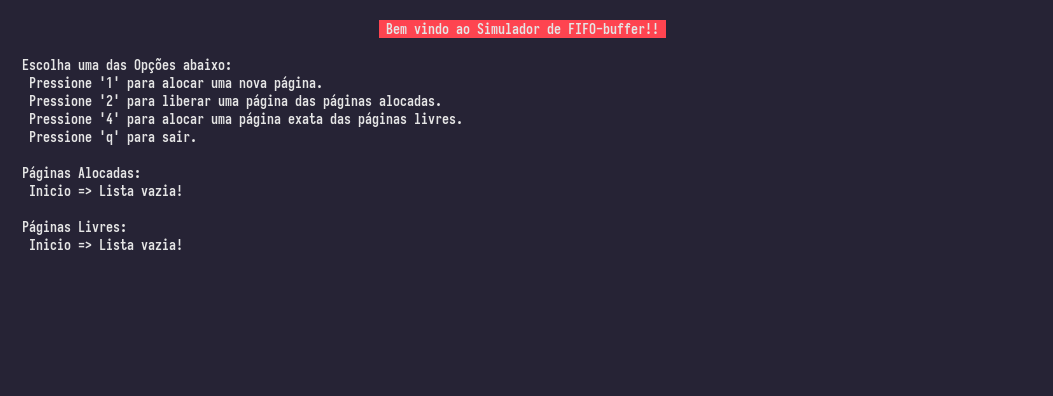
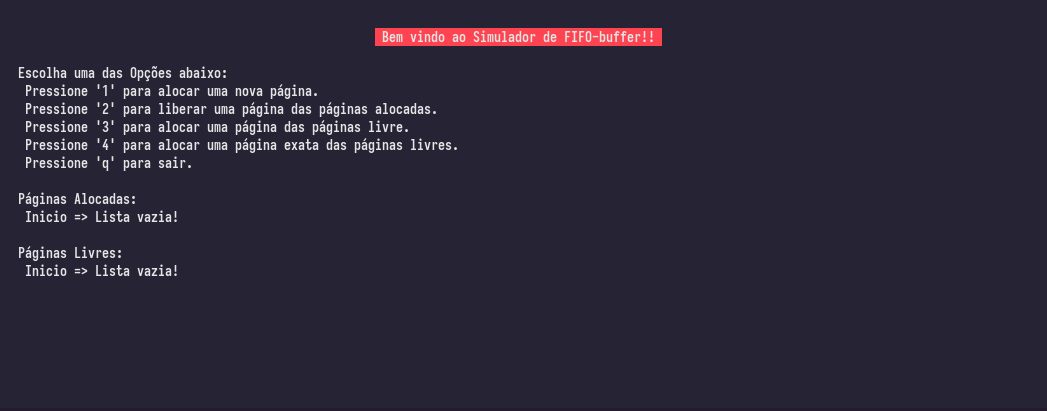
corrigindo menu

Changed region(s): [[0.0, 0.1515, 0.4279, 0.697], [0.3362, 0.0303, 0.6418, 0.1212]]

diff --git a/src/main.rs b/src/main.rs
@@ -223,7 +223,7 @@ fn main() {
         );
         rustbox.print(
             1,
-            6,
+            7,
             rustbox::RB_BOLD,
             Color::White,
             Color::Default,
@@ -231,7 +231,7 @@ fn main() {
         );
         rustbox.print(
             1,
-            7,
+            8,
             rustbox::RB_BOLD,
             Color::White,
             Color::Default,
@@ -239,7 +239,7 @@ fn main() {
         );
         rustbox.print(
             1,
-            9,
+            10,
             rustbox::RB_BOLD,
             Color::White,
             Color::Default,
@@ -247,7 +247,7 @@ fn main() {
         );
         rustbox.print(
             1,
-            10,
+            11,
             rustbox::RB_BOLD,
             Color::White,
             Color::Default,
@@ -255,7 +255,7 @@ fn main() {
         );
         rustbox.print(
             1,
-            12,
+            13,
             rustbox::RB_BOLD,
             Color::White,
             Color::Default,
@@ -263,7 +263,7 @@ fn main() {
         );
         rustbox.print(
             1,
-            13,
+            14,
             rustbox::RB_BOLD,
             Color::White,
             Color::Default,
